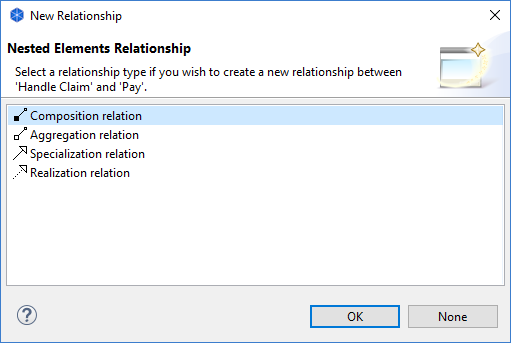
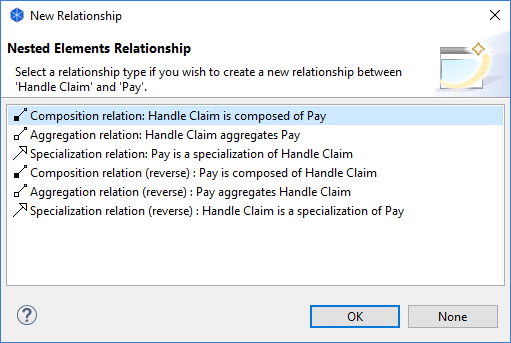
4.3.1 -> 4.3.2

Changed region(s): [[0.0294, 0.379, 0.7926, 0.6414], [0.8513, 0.1166, 0.9687, 0.2624], [0.2642, 0.3207, 0.6458, 0.3499]]

diff --git a/com.archimatetool.help.en/nl/en/help/Text/prefs_connections.html b/com.archimatetool.help.en/nl/en/help/Text/prefs_connections.html
@@ -94,10 +94,13 @@
 	If this is enabled then when an element in a View is dragged onto a parent element in the View a dialog appears offering to create a new relationship between the parent and child elements if one does not already exist.</p>
 
 	<p><strong>Relation types offered when creating new relations</strong><br/>
-	Select the types of relationship that will be offered when new implicit connections are created between parent and child elements in a View. The default is Composition, Aggregation and Assignment types.</p>
+	Select the types of relationship that will be offered when new implicit connections are created between parent and child elements in a View.</p>
+
+	<p><strong>Reverse relation types offered when creating new relations</strong><br/>
+	Select the types of relationship that will be offered when new implicit connections are created between child and parent elements in a View. These are "reversed" nestings.</p>
 
 	<p><strong>Relation types to hide when elements are nested</strong><br/>
-	Select the types of relationship connection that will be hidden in a View when there are nested parent and child elements. The default is Composition, Aggregation and Assignment types.</p>
+	Select the types of relationship connection that will be hidden in a View when there are nested parent and child elements.</p>
 
 	<p>&nbsp;</p>
 

diff --git a/com.archimatetool.help.en/nl/en/help/Text/view_container_nested.html b/com.archimatetool.help.en/nl/en/help/Text/view_container_nested.html
@@ -57,7 +57,9 @@
     <img src="../Images/container6.png"/>
     <p class="caption">Dialog to create a new nested relationship</p>
     
-    <p>Note that the dialog will only display valid relationships between the parent and child elements, and only those that are specified in <a href="prefs_connections.html">Preferences</a>. If you do not wish to create a new relationship, select "None".</p>
+    <p>Note that the dialog will only display valid relationships between the parent and child elements, and only those that are specified in <a href="prefs_connections.html">Preferences</a>. Valid relations between the child and parent elements can also be selected. These are shown as "(reverse)".</p>
+    
+    <p>If you do not wish to create a new relationship, select "None".</p>
     
     <h3>Moving existing elements to a parent element</h3>
     

diff --git a/com.archimatetool.help.en/nl/en/help/Text/intro.html b/com.archimatetool.help.en/nl/en/help/Text/intro.html
@@ -29,7 +29,7 @@
         <li>Andrew Josey and The Open Group for positivity and support.</li>
 	</ul>
     
-    <p>Copyright (c) 2013-2018 Phillip Beauvoir, Jean-Baptiste Sarrodie, The Open Group. All Rights Reserved.</p>
+    <p>Copyright (c) 2013-2019 Phillip Beauvoir, Jean-Baptiste Sarrodie, The Open Group. All Rights Reserved.</p>
     
     <p>&nbsp;</p>
 
